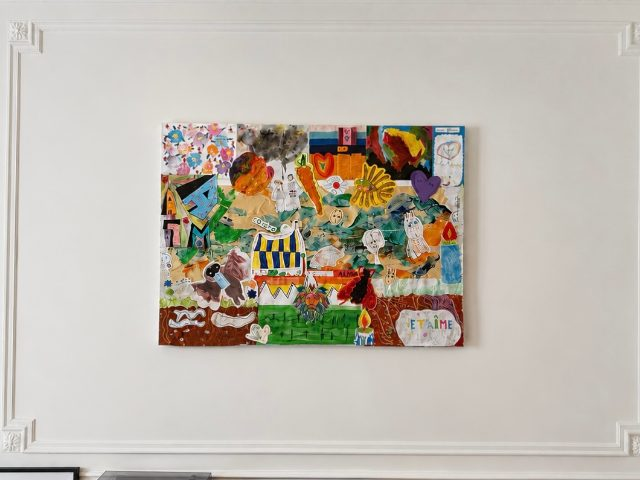
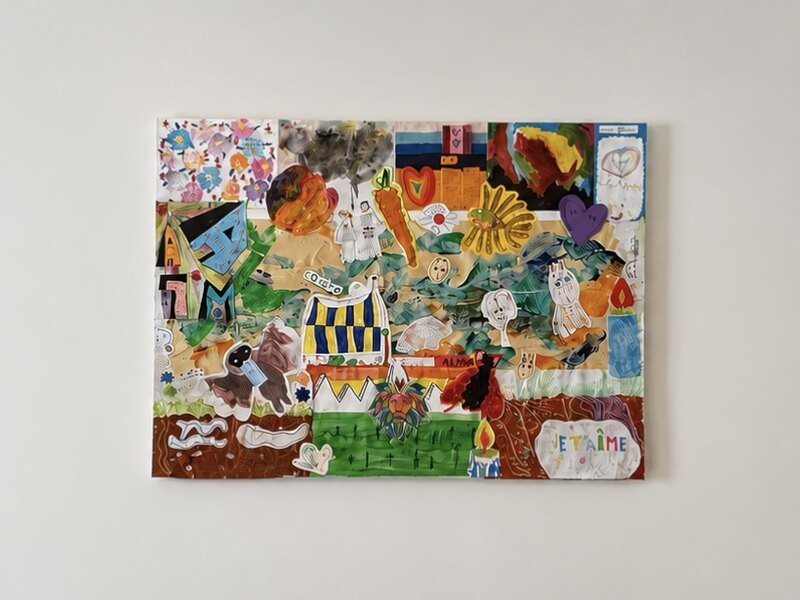
Importer : les mêmes choix qu'au premier import ; carte Originaux aux couleurs d'origine
- La section Importer propose Photothèque, Prendre une photo (écran tactile)
  et Fichiers (les PDF), à la place du bouton photo et de la zone de dépôt ;
  déposer des fichiers sur la page les importe toujours.
- Carte Originaux : recadrée plus près de la toile, avec ImageMagick qui garde
  le profil de couleur Display P3 de la photo (le recadrage par canevas le
  convertissait et l'aplatissait).

Tests et README.

Claude-Session: https://claude.ai/code/session_016gFESkuH8R1BfGgUe59ViC

diff --git a/collage/index.html b/collage/index.html
@@ -152,16 +152,18 @@
     <section id="import-section" class="step">
       <h2><span class="num">01</span> Importer</h2>
       <p id="draft-offer" class="alert" hidden><span></span> <button type="button" id="draft-resume" class="link" hidden>Reprendre</button> <button type="button" id="draft-forget" class="link" hidden>Ne pas la rouvrir</button></p>
-      <!-- sur téléphone seulement (style.css) : photographier un dessin, avant le dépôt de fichiers -->
-      <button type="button" id="camera-open" class="btn camera-open" hidden><svg class="ico"><use href="#i-camera"/></svg><span>Photographier un dessin</span></button>
-      <label id="drop" class="drop">
+      <!-- l'ajout de dessins : les mêmes choix qu'au premier import — Photothèque (le sélecteur de l'appareil),
+           Prendre une photo (l'appareil photo de l'atelier, écran tactile seulement), Fichiers (les PDF) ;
+           des fichiers déposés sur la page sont aussi importés -->
+      <div id="drop" class="import-choices">
         <input id="file" type="file" multiple accept="application/pdf,image/*,image/heic,image/heif" hidden>
-        <!-- « Fichiers » du choix d'ajout (téléphone) : les PDF seulement, pour qu'iOS ouvre Fichiers et non la photothèque -->
+        <!-- « Fichiers » : les PDF seulement, pour qu'iOS ouvre Fichiers et non la photothèque -->
         <input id="file-docs" type="file" multiple accept="application/pdf,.pdf" hidden>
-        <svg class="ico ico-lg"><use href="#i-upload"/></svg>
-        <strong>Déposez les photos ou les scans des dessins</strong>
-        <span>PDF de plusieurs pages, JPG ou PNG</span>
-      </label>
+        <button type="button" id="import-photos" class="btn btn-primary"><svg class="ico"><use href="#i-frame"/></svg><span>Photothèque</span></button>
+        <button type="button" id="camera-open" class="btn camera-open" hidden><svg class="ico"><use href="#i-camera"/></svg><span>Prendre une photo</span></button>
+        <button type="button" id="import-files" class="btn"><svg class="ico"><use href="#i-file"/></svg><span>Fichiers</span></button>
+        <p class="hint">Photothèque : photos ou scans déjà sur l’appareil · Fichiers : PDF de plusieurs pages</p>
+      </div>
       <!-- « Importer une meilleure version » d'un dessin (fiche du dessin) -->
       <input id="replace-file" type="file" accept="application/pdf,image/*,image/heic,image/heif" hidden>
       <p id="import-account" class="hint import-account" hidden>Importez vos dessins librement ; un compte gratuit n’est demandé que pour les photographier depuis l’atelier ou exporter, et il garde vos œuvres sur tous vos appareils.</p>

diff --git a/collage/style.css b/collage/style.css
@@ -970,6 +970,11 @@ body.mode-toile .scene-modal .scene-room [data-room="salle"] { grid-column: 1 / 
 .scene-open .ico { width: 17px; height: 17px; }
 body.stage-full .scene-open { display: none; }
 .drop.small { padding: 16px 12px; }
+/* Importer : les trois choix d'ajout, l'un sous l'autre (la section accepte aussi un dépôt de fichiers) */
+.import-choices { display: grid; gap: 10px; border-radius: var(--r-lg); transition: box-shadow .2s, background .2s; }
+.import-choices .btn { width: 100%; justify-content: center; margin: 0; }
+.import-choices .hint { margin: 0; text-align: center; font-size: 0.76rem; }
+.import-choices.over { background: var(--accent-soft); box-shadow: 0 0 0 8px var(--accent-soft); }
 .ed-help { margin: 0; margin-right: auto; color: var(--muted); font-size: 0.78rem; }
 .ed-bar { display: flex; flex-wrap: wrap; align-items: center; gap: 10px 18px; padding: 12px 20px; border-bottom: 1px solid var(--line); }
 .ed-head { margin-right: auto; min-width: 0; }

diff --git a/collage/tests/ui.spec.js b/collage/tests/ui.spec.js
@@ -22,6 +22,12 @@ test.describe('Interface', () => {
     await expect(page.locator('#import-section')).toBeVisible();
     await page.locator('#import-section > h2').click();
     await expect(page.locator('#drop')).toBeVisible();
+    // les mêmes choix qu'au premier import : Photothèque, Fichiers (Prendre une photo : écran tactile seulement)
+    await expect(page.locator('#import-photos')).toBeVisible();
+    await expect(page.locator('#import-files')).toBeVisible();
+    await expect(page.locator('#camera-open')).toBeHidden();
+    const [ch] = await Promise.all([page.waitForEvent('filechooser'), page.locator('#import-files').click()]);
+    expect(await ch.element().getAttribute('accept')).not.toContain('image');
     await page.locator('#import-section > h2').click();
     await expect(page.locator('#sizes-section')).not.toHaveClass(/collapsed/);
     await expect(page.locator('#compose-section')).not.toHaveClass(/collapsed/);

diff --git a/collage/tests/i18n.spec.js b/collage/tests/i18n.spec.js
@@ -10,7 +10,8 @@ test.describe('langues', () => {
     await page.waitForFunction(() => window.AtelierGribouille && window.I18n);
     await expect(page.locator('html')).toHaveAttribute('lang', 'en');
     await expect(page.locator('#import-section h2')).toContainText('Import');
-    await expect(page.locator('#drop strong')).toHaveText('Drop the photos or scans of the drawings');
+    await expect(page.locator('#import-photos')).toHaveText('Photo library');
+    await expect(page.locator('#import-files')).toHaveText('Files');
     await expect(page.locator('#export')).toContainText('Download the artwork');
     // deux sélecteurs : celui du carnet (grand écran) et celui du bandeau (téléphone)
     await expect(page.locator('.brand [data-lang="en"]')).toHaveAttribute('aria-pressed', 'true');

diff --git a/collage/js/app.js b/collage/js/app.js
@@ -5586,6 +5586,9 @@ Réfléchis à la scène avant de répondre, puis réponds uniquement avec ce JS
   }));
   $('empty-change').addEventListener('click', () => emptyChoice(false));
   $('empty-drop').addEventListener('click', () => $('file').click());
+  // Importer : Photothèque et Fichiers (Prendre une photo : camera-open, plus haut)
+  $('import-photos').addEventListener('click', () => $('file').click());
+  $('import-files').addEventListener('click', () => $('file-docs').click());
   // téléphone : « Ajouter des dessins » ouvre le choix — Photothèque (le sélecteur du téléphone),
   // Prendre une photo (l'appareil photo de l'atelier, voir plus haut), Fichiers (les PDF, dans Fichiers)
   (() => {

diff --git a/collage/js/i18n.js b/collage/js/i18n.js
@@ -48,7 +48,6 @@
     'Enregistrer': 'Save',
     'Se déconnecter': 'Sign out',
     'Importer': 'Import',
-    'Déposez les photos ou les scans des dessins': 'Drop the photos or scans of the drawings',
     'PDF de plusieurs pages, JPG ou PNG': 'Multi-page PDF, JPG or PNG',
     // prise de photo dans l'atelier
     'Photographier un dessin': 'Photograph a drawing',

diff --git a/collage/README.md b/collage/README.md
@@ -102,9 +102,12 @@ cd collage && python3 -m http.server 8000
    fichiers) ; photographier depuis l'atelier, exporter ou commander ouvre la fenêtre
    de connexion ou d'inscription (`requireAccount`), puis l'action demandée reprend d'elle-même une
    fois connecté. Une phrase sous la zone d'import le dit aux visiteurs non connectés.
-1. **Importer** les scans : PDF multipages, JPG ou PNG (glisser-déposer), ou **photographier les
-   dessins depuis l'atelier** (`js/camera.js`, bouton « Photographier un dessin » au-dessus de la
-   zone de dépôt, sur téléphone et tablette — largeur ≤ 860 px, ou tout écran tactile (`html.touch`,
+1. **Importer** les scans : PDF multipages, JPG ou PNG. La section Importer propose les mêmes choix
+   qu'au premier import (`#drop`, `.import-choices`) : « Photothèque » (`#import-photos`, le sélecteur
+   de l'appareil), « Prendre une photo » et « Fichiers » (`#import-files`, les PDF) ; des fichiers
+   glissés-déposés sur la page sont aussi importés. **Photographier les
+   dessins depuis l'atelier** (`js/camera.js`, bouton « Prendre une photo », `#camera-open`,
+   sur téléphone et tablette — largeur ≤ 860 px, ou tout écran tactile (`html.touch`,
    iPad en paysage compris : la visée y reste en plein écran) ; pas sur un ordinateur sans écran
    tactile — et quand le navigateur donne accès à l'appareil photo ; les conseils de prise de vue sont dans les questions fréquentes de l'accueil) : d'abord une fenêtre de conseil (« Avant de photographier » : le dessin bien à plat sur un fond clair et uni, bonne lumière, sans ombre portée ; « Ne plus afficher ce conseil » la retient, `atelier.conseil-photo-vu`), puis pendant la visée, chaque image est jugée sur
    **l'éclairage** et l'écran ne donne qu'**une consigne à la fois** (« Ombre sur la feuille :
